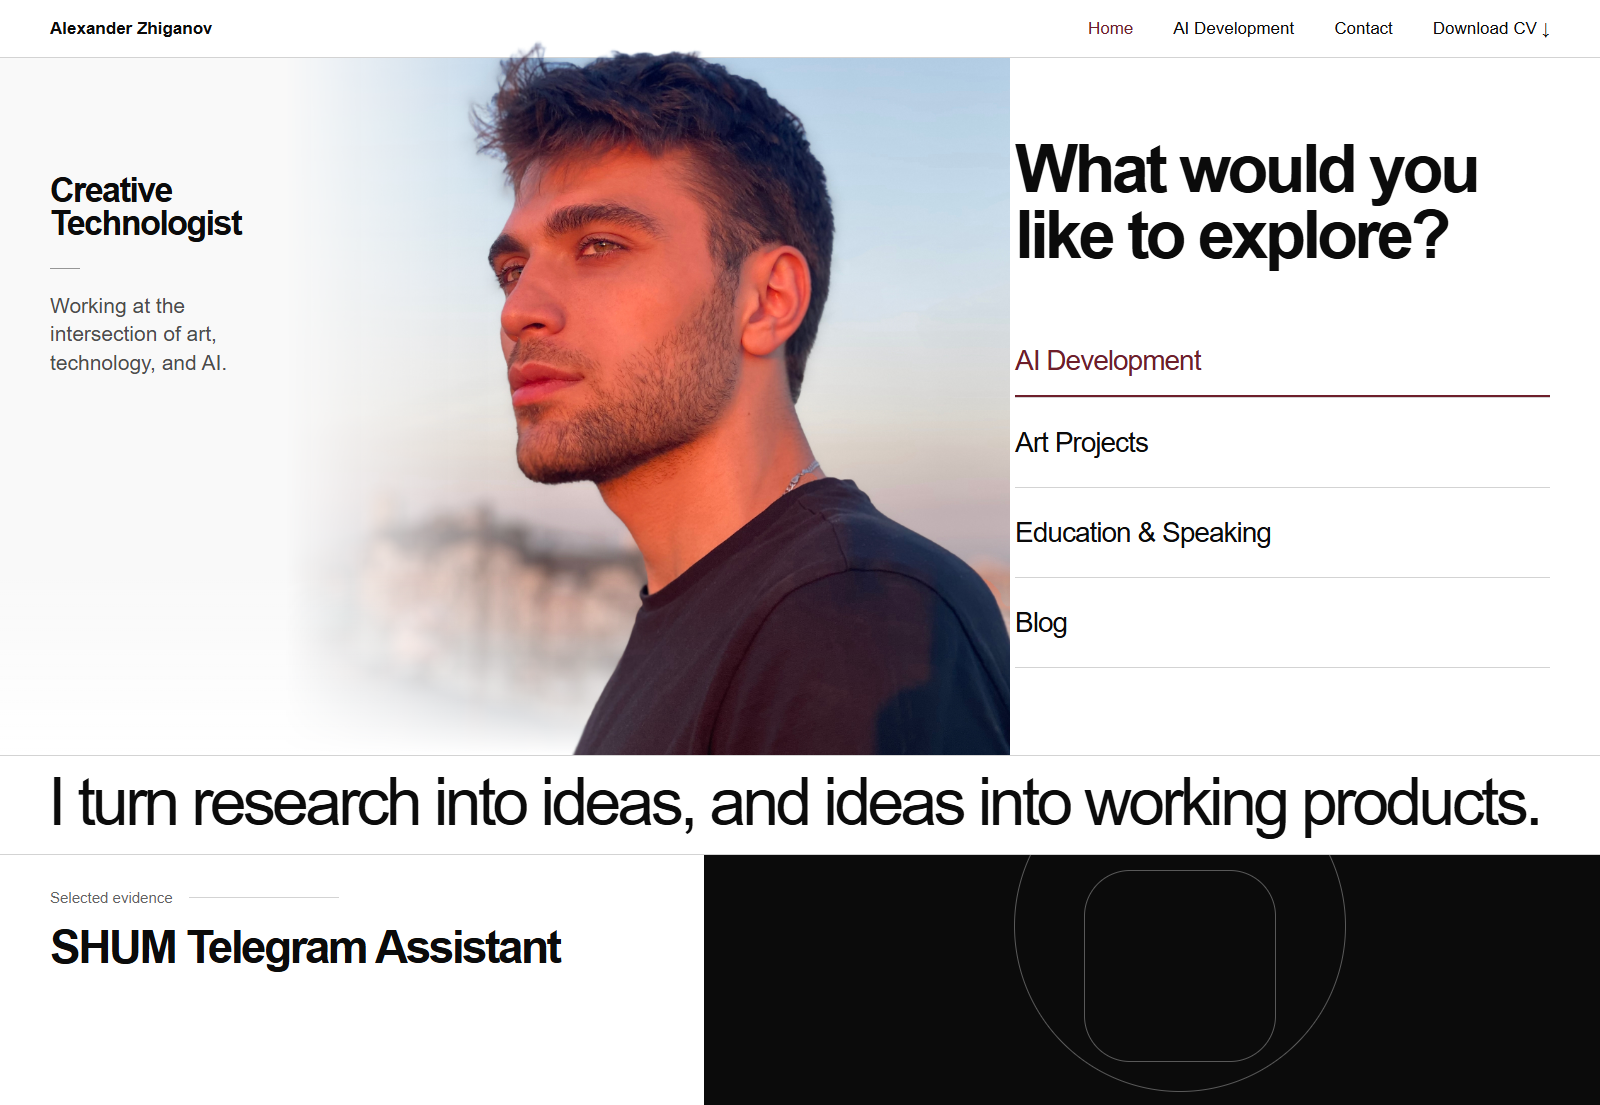
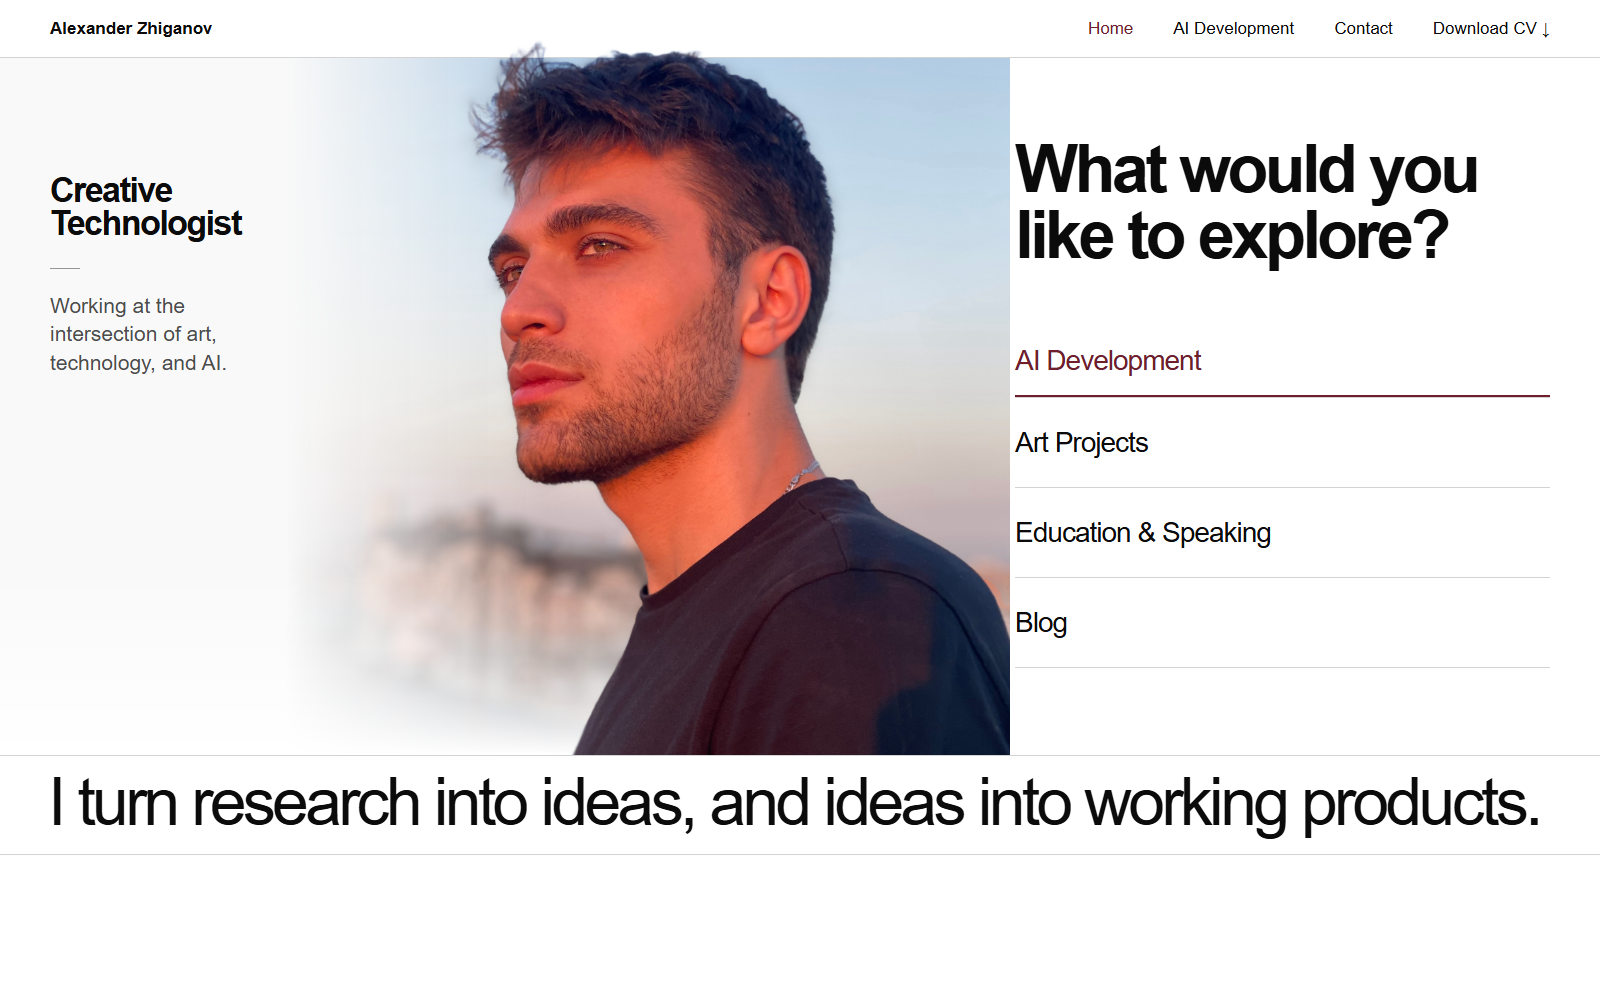
style(design): FINDING-001 — remove selected work from homepage

diff --git a/.impeccable/mocks/decision/model-pick-r2.html b/.impeccable/mocks/decision/model-pick-r2.html
@@ -198,66 +198,6 @@
         white-space: nowrap;
       }
 
-      .evidence {
-        display: grid;
-        grid-template-columns: 44% 56%;
-        min-height: 250px;
-      }
-
-      .evidence-copy {
-        padding: 34px 50px;
-      }
-
-      .eyebrow {
-        display: flex;
-        align-items: center;
-        gap: 16px;
-        color: rgba(11, 11, 11, 0.64);
-        font-size: 15px;
-      }
-
-      .eyebrow::after {
-        content: "";
-        width: 150px;
-        height: 1px;
-        background: var(--rule);
-      }
-
-      .evidence h3 {
-        margin: 18px 0 0;
-        font-size: 46px;
-        line-height: 1;
-        letter-spacing: -0.055em;
-      }
-
-      .evidence-visual {
-        position: relative;
-        overflow: hidden;
-        background: var(--ink);
-      }
-
-      .evidence-visual::before,
-      .evidence-visual::after {
-        content: "";
-        position: absolute;
-        border: 1px solid rgba(255, 255, 255, 0.32);
-      }
-
-      .evidence-visual::before {
-        width: 330px;
-        height: 330px;
-        top: -95px;
-        left: 310px;
-        border-radius: 50%;
-      }
-
-      .evidence-visual::after {
-        width: 190px;
-        height: 190px;
-        top: 15px;
-        left: 380px;
-        border-radius: 46px;
-      }
     </style>
   </head>
   <body>
@@ -299,13 +239,6 @@
         I turn research into ideas, and ideas into working products.
       </section>
 
-      <section class="evidence">
-        <div class="evidence-copy">
-          <div class="eyebrow">Selected evidence</div>
-          <h3>SHUM Telegram Assistant</h3>
-        </div>
-        <div class="evidence-visual" aria-hidden="true"></div>
-      </section>
     </main>
   </body>
 </html>
